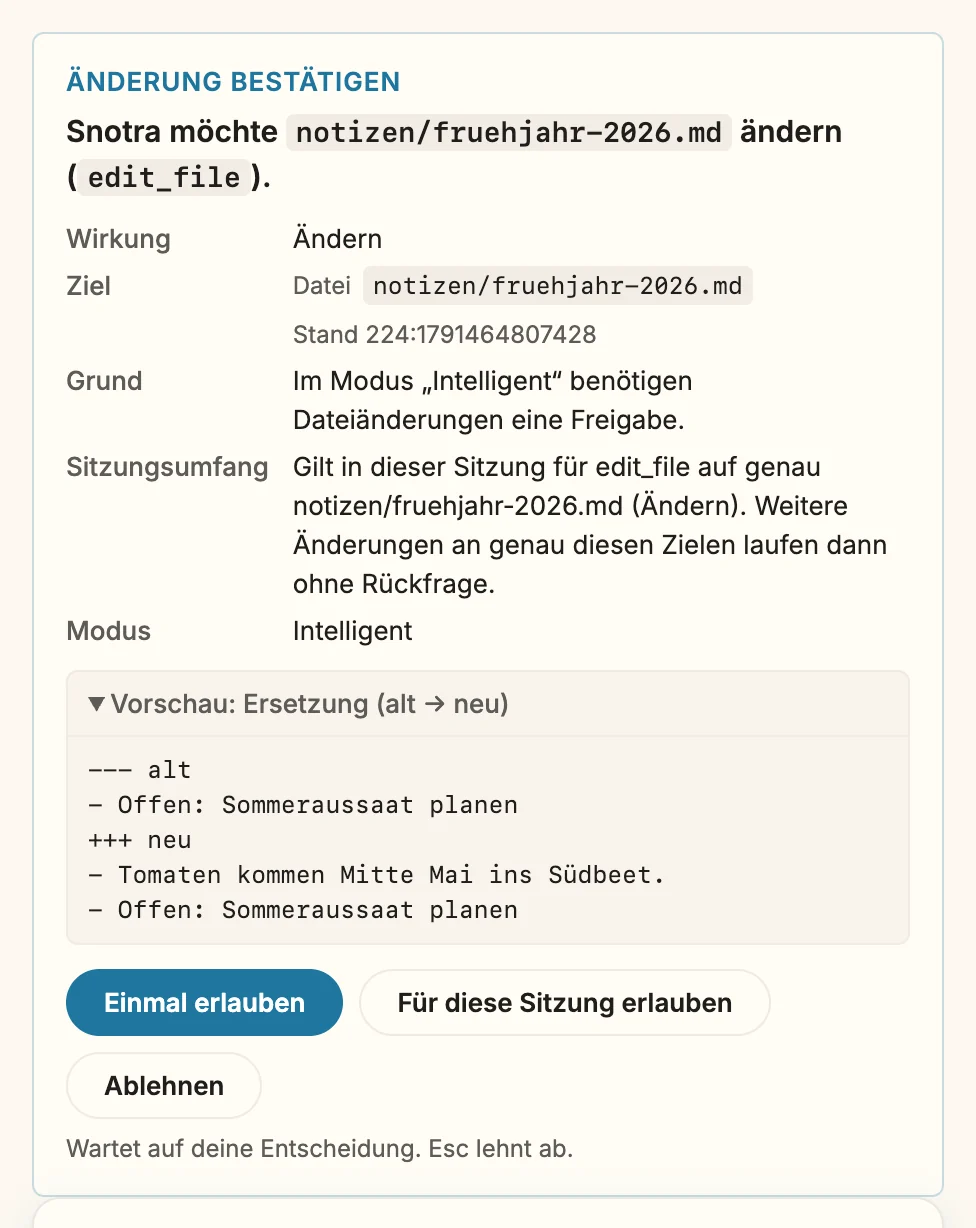
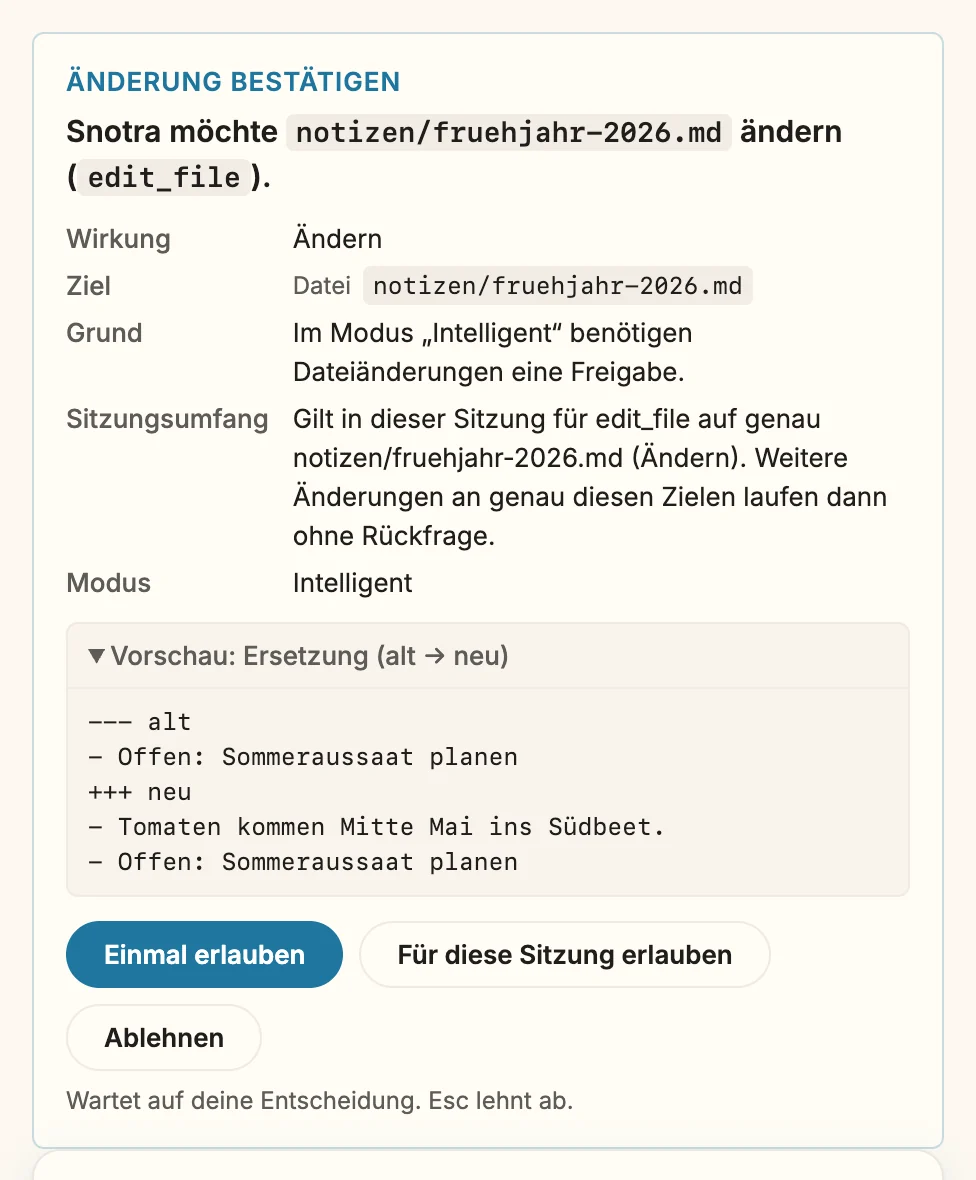
Stop showing the raw file version token on approval cards (#811) (#828)
An approval card for an existing file listed "as of <size>:<mtime>" under
the target. The token still binds the approval and a session allowance to
the file version the model saw, but it is no longer rendered as a note: it
is unreadable, and the session scope already says the allowance applies to
this file version. The strings approval.note.version (en/de) are gone, and
the manual motif approval-card is regenerated.

diff --git a/test/tool-approval-view.test.js b/test/tool-approval-view.test.js
@@ -102,7 +102,7 @@ test('card: a new file is "create", overwriting warns about the trash copy', asy
   assert.match(noRecovery.actions.session.hint, /Overwrite with no way back.*single decision/);
 });
 
-test('card: a sensitive read shows provider, file version and the file-access title', async () => {
+test('card: a sensitive read shows provider and the file-access title, keeps the file version hidden', async () => {
   const { buildApprovalCardView } = await load();
   const view = buildApprovalCardView(
     dto({
@@ -119,7 +119,9 @@ test('card: a sensitive read shows provider, file version and the file-access ti
   assert.equal(view.sensitive, true);
   assert.equal(view.providerLabel, 'OpenAI');
   assert.ok(view.targets[0].notes.some((n) => n.startsWith('sensitive (Dateiname .env)')));
-  assert.ok(view.targets[0].notes.includes('as of 1725000000:120'));
+  // The version token is kept for the binding but never shown (#811).
+  assert.equal(view.targets[0].version, '1725000000:120');
+  assert.ok(!view.targets[0].notes.some((n) => n.includes('1725000000')));
   assert.match(view.scopeNote, /this file version and the chosen provider/);
 });
 

diff --git a/src/renderer/utils/tool-approval-view.js b/src/renderer/utils/tool-approval-view.js
@@ -253,10 +253,10 @@ function describeTarget(target) {
       ? t('approval.note.sensitiveReason', { reason: target.sensitiveReason })
       : t('approval.note.sensitive'));
   }
-  if (typeof target?.version === 'string' && target.version) {
-    out.version = target.version;
-    out.notes.push(t('approval.note.version', { version: target.version }));
-  }
+  // The version token (size and mtime) binds the approval to the file the
+  // model saw; it stays on the view but is no note — nobody can read it, and
+  // the session scope already says it applies to this file version (#811).
+  if (typeof target?.version === 'string' && target.version) out.version = target.version;
   if (target?.kind === 'file' && !out.exists) out.notes.push(t('approval.note.new'));
   if (target?.recovery === 'trash') out.notes.push(t('approval.note.trash'));
   // A file in a skill folder names its skill (#427); only reading reaches

diff --git a/src/shared/i18n/messages/de.js b/src/shared/i18n/messages/de.js
@@ -1487,7 +1487,6 @@ module.exports = {
   'approval.targetKind.tree': 'Ordnerbaum',
   'approval.note.sensitive': 'sensibel',
   'approval.note.sensitiveReason': 'sensibel ({reason})',
-  'approval.note.version': 'Stand {version}',
   'approval.note.new': 'neu',
   'approval.note.trash': 'Kopie in den Papierkorb',
   'approval.note.skill': 'aus dem Skill {name}',

diff --git a/src/shared/i18n/messages/en.js b/src/shared/i18n/messages/en.js
@@ -1479,7 +1479,6 @@ module.exports = {
   'approval.targetKind.tree': 'Folder tree',
   'approval.note.sensitive': 'sensitive',
   'approval.note.sensitiveReason': 'sensitive ({reason})',
-  'approval.note.version': 'as of {version}',
   'approval.note.new': 'new',
   'approval.note.trash': 'copy to the trash',
   'approval.note.skill': 'from skill {name}',
